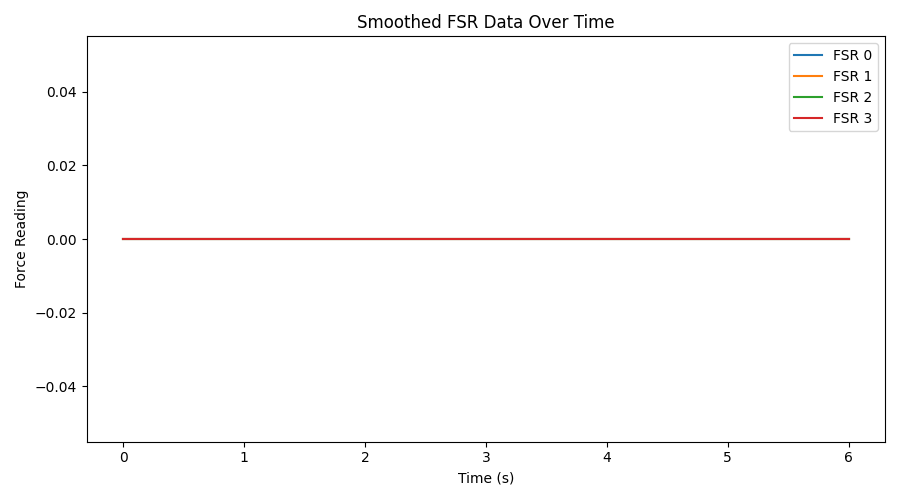
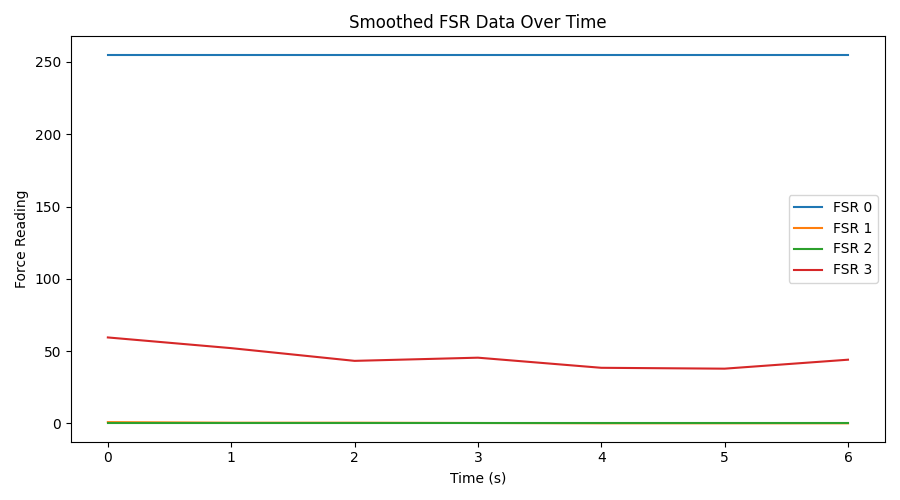
fixed boxes

diff --git a/templates/index.html b/templates/index.html
@@ -4,7 +4,7 @@
     <meta charset="UTF-8">
     <meta name="viewport" content="width=device-width, initial-scale=1.0">
     <title>Gait Analysis App</title>
-    <link rel="stylesheet" href="styles.css">
+    <link rel="stylesheet" href="../static/styles.css">
 </head>
 <body>
     <header>
@@ -23,7 +23,7 @@
             <h2>Real-Time Analysis</h2>
             <div class="analysis-container">
                 <div class="graph-placeholder">
-                    <img src="realtimegraph.png" alt="Real-Time Graph">
+                    <img src="../realtimegraph.png" alt="Real-Time Graph">
                 <div id="last-updated-time" class="last-updated">Last updated: <span id="update-time">-</span></div>
                 </div>
                 <!-- Boxes for stride length, max force, and foot position -->
@@ -34,12 +34,12 @@
                     </div>
                     <div class="data-box max-force">
                         <h3>Max Force</h3>
-                        <p>115 Newtons (Sensor 2)</p>
+                        <iframe src="../max_force.txt"></iframe>
                     </div>
                     <div class="data-box foot-position">
                         <h3>Foot Position</h3>
-                        <p class="foot-position-content">Mild Eversion Detected!</p>
-                    </div>
+                        <iframe src="../foot_position.txt"></iframe>
+                                           </div>
                 </div>
             </div>
             <!-- Buttons for starting and stopping analysis -->
@@ -52,19 +52,19 @@
             <h2>Previous Results</h2>
             <div class="results-grid">
                 <div class="result-item">
-                    <img src="realtimegraph1.png" alt="Previous Result">
+                    <img src="../realtimegraph1.png" alt="Previous Result">
                     <p>Current Run</p>
                 </div>
                 <div class="result-item">
-                    <img src="realtimegraph2.png" alt="Previous Result">
+                    <img src="../realtimegraph2.png" alt="Previous Result">
                     <p>Last Run</p>
                 </div>
                 <div class="result-item">
-                    <img src="realtimegraph3.png" alt="Previous Result">
+                    <img src="../realtimegraph3.png" alt="Previous Result">
                     <p> Second Last Run</p>
                 </div>
                 <div class="result-item">
-                    <img src="realtimegraph4.png" alt="Previous Result">
+                    <img src="../realtimegraph4.png" alt="Previous Result">
                     <p> Third Last Run</p>
                 </div>
             </div>
@@ -113,25 +113,17 @@
         window.onload = updateLastUpdatedTime;
 
     </script>
-   
-</body>
-<body>
     <script>
-        document.getElementById("start-analysis").addEventListener("click", function() {
-            // Send an AJAX request to the server-side script
-            var xhr = new XMLHttpRequest();
-            xhr.open("GET", "execute_script.php", true);
-            xhr.onreadystatechange = function () {
-                if (xhr.readyState === XMLHttpRequest.DONE) {
-                    if (xhr.status === 200) {
-                        console.log("Shell script executed successfully");
-                    } else {
-                        console.error("Failed to execute shell script");
-                    }
-                }
-            };
-            xhr.send();
-        });
-    </script>
+        function updateFootPosition() {
+            fetch('foot_position.txt')
+                .then(response => response.text())
+                .then(text => {
+                    document.querySelector('.foot-position-content').textContent = text;
+                })
+                .catch(error => console.error('Error loading the foot position data:', error));
+        }
+    
+    </script>    
+   
 </body>
 </html>

diff --git a/static/styles.css b/static/styles.css
@@ -126,6 +126,10 @@ footer {
 .max-force {
     background-color: #ffcce5; /* Light pink */
 }
+.max-force iframe {
+    width: 150px;
+    height: 40px;
+}
 
 .foot-position {
     background-color: #e0f7fa; /* Light cyan */
@@ -134,6 +138,11 @@ footer {
 .foot-position-content {
     font-size: 18px; /* Larger font size */
     color: #FF6F00; /* Unique and cool color */
+}
+
+.foot-position iframe {
+    width: 150px;
+    height: 40px;
 }
 
 /* CSS for buttons */

diff --git a/graph_generator.py b/graph_generator.py
@@ -22,6 +22,15 @@ while time.time() - start_time < duration:
         for i in range(4):
             data_storage[i].append(float(data[i]))
 
+max = 0
+for line in data_storage:
+    for value in line:
+        if value > max:
+            max = value
+
+with open('max_force.txt', 'w') as file:
+    file.write(str(max) + ' N')
+
 # Close the socket
 s.close()
 
@@ -49,3 +58,6 @@ plt.tight_layout()
 plt.savefig('realtimegraph.png')
 plt.savefig('realtimegraphextra.png')
 
+foot_position = "Inversion"
+with open('foot_position.txt', 'w') as file:
+    file.write(foot_position)
